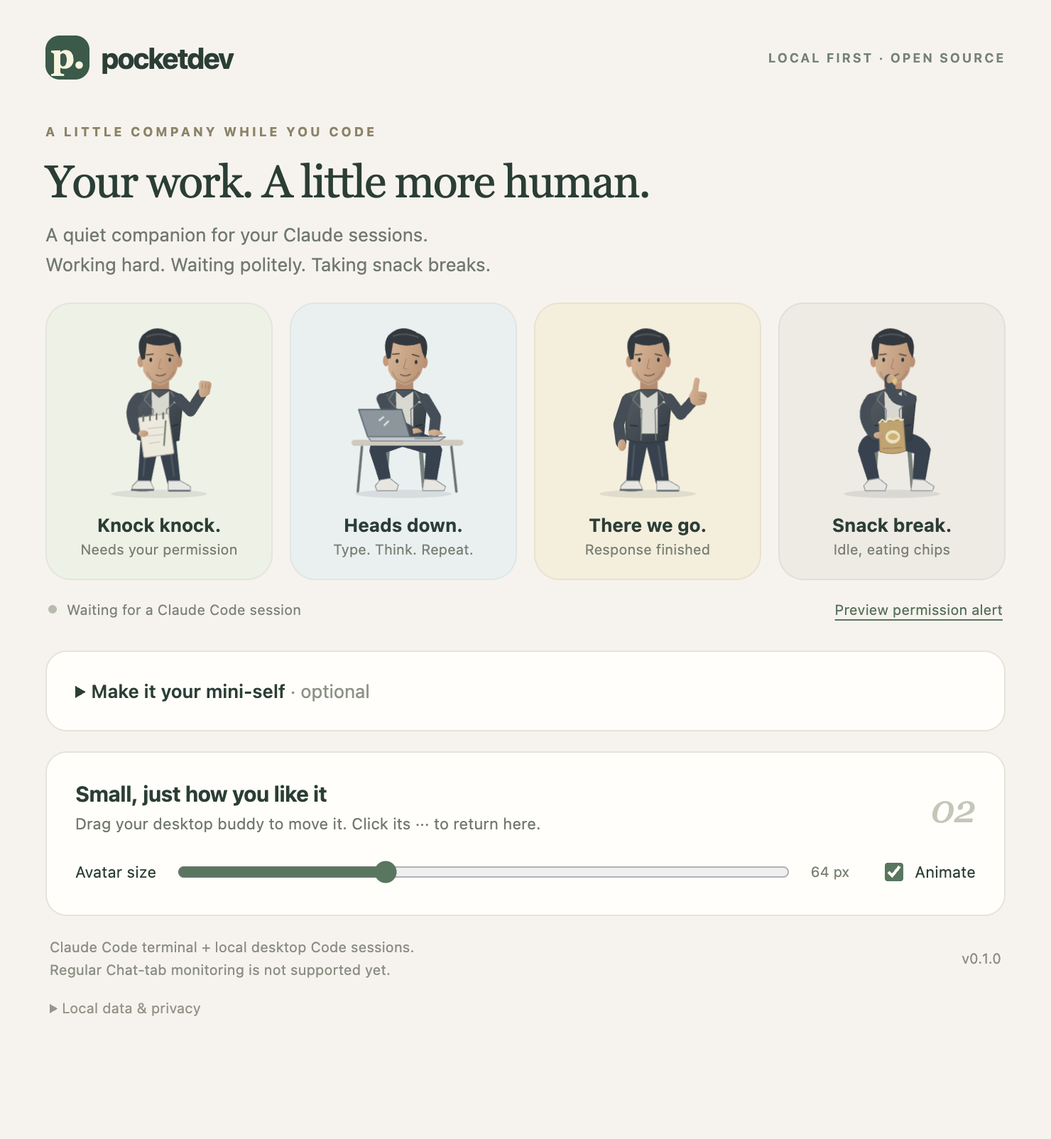
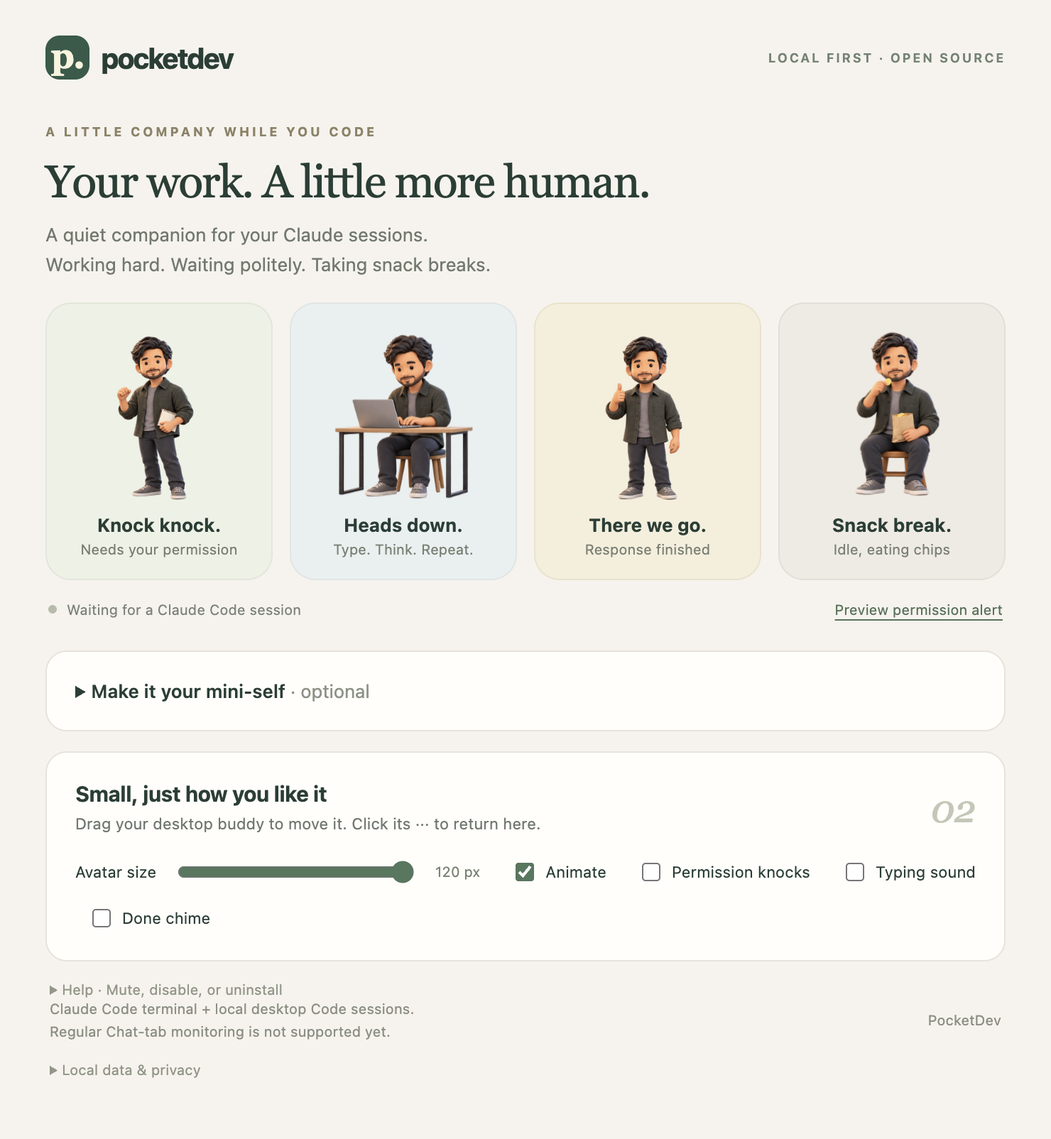
feat: enhance mascot animations and documentation with bundled sprite sheets

diff --git a/app/mascot.js b/app/mascot.js
@@ -1,118 +1,62 @@
-// Original SVG artwork, animated with CSS. No external assets or animation runtime.
+// Bundled 3D-style sprite sheets; no network or animation library required.
+// View boxes align the original generated frames without resampling the artwork.
+const buddyAssets = new URL("assets/buddy/", document.currentScript.src).href;
+const buddyFrames = {
+  waiting: {
+    size: 1254,
+    cell: 627,
+    views: [
+      [20, -75, 742, 742],
+      [569, -75, 742, 742],
+      [20, 550, 742, 742],
+      [569, 550, 742, 742],
+    ],
+  },
+  working: {
+    size: 1254,
+    cell: 627,
+    views: [
+      [-41, -63, 726, 726],
+      [577, -63, 726, 726],
+      [-41, 548, 726, 726],
+      [577, 549, 726, 726],
+    ],
+  },
+  done: {
+    size: 1254,
+    cell: 627,
+    views: [
+      [-3, -68, 732, 732],
+      [545, -68, 732, 732],
+      [-3, 558, 732, 732],
+      [545, 558, 732, 732],
+    ],
+  },
+  idle: {
+    size: 1254,
+    cell: 627,
+    views: [
+      [-18, -46, 703, 703],
+      [574, -46, 703, 703],
+      [-15, 567, 703, 703],
+      [576, 568, 703, 703],
+    ],
+  },
+};
 window.mountMascot = (container) => {
-  container.innerHTML = `<svg class="original" viewBox="0 0 240 240" role="img" aria-label="PocketDev mini developer">
-    <defs>
-      <linearGradient id="jacket" x1="0" y1="0" x2="1" y2=".7"><stop stop-color="#66706c"/><stop offset=".45" stop-color="#414c49"/><stop offset="1" stop-color="#293431"/></linearGradient>
-      <linearGradient id="skin" x1="0" y1="0" x2="1" y2=".45"><stop stop-color="#dcbaa0"/><stop offset=".55" stop-color="#c39a7c"/><stop offset="1" stop-color="#a9795c"/></linearGradient>
-      <linearGradient id="trousers" x2="1" y2=".3"><stop stop-color="#3c4650"/><stop offset="1" stop-color="#222b34"/></linearGradient>
-    </defs>
-    <ellipse cx="121" cy="219" rx="45" ry="3" fill="#15201e" opacity=".12"/>
-    <g class="character" stroke-linecap="round" stroke-linejoin="round">
-      <g class="standing-legs">
-        <path d="M103 145 L139 145 L140 172 L145 209 L132 209 L121 164 L113 209 L99 209 L101 174Z" fill="url(#trousers)"/>
-        <path d="M118 154 L110 198 M129 168 L138 199" fill="none" stroke="#626a6f" stroke-width=".9" opacity=".55"/>
-        <path d="M100 204 L113 205 L114 213 Q105 216 93 215 L93 211Z M132 205 L145 205 L154 211 L154 215 L131 215Z" fill="#343b3e"/>
-        <path d="M94 215 L114 215 M132 215 L154 215" stroke="#a6aaa5" stroke-width="1.5"/>
-      </g>
-      <g class="seated-legs">
-        <path d="M99 158 L96 214 M142 158 L147 214" stroke="#66716b" stroke-width="3"/>
-        <rect x="94" y="151" width="54" height="6" rx="1" fill="#9b998a"/>
-        <path d="M104 145 Q89 147 85 165 L94 207 L107 205 L103 170 L120 163 L142 171 L142 206 L155 207 L163 165 Q153 150 137 145Z" fill="url(#trousers)"/>
-        <path d="M94 168 L100 194 M153 172 L149 195" stroke="#667078" stroke-width=".9" fill="none" opacity=".5"/>
-        <path d="M94 204 L106 204 L113 210 L112 216 L89 216 L89 212Z M143 204 L155 205 L164 211 L163 216 L141 216Z" fill="#343b3e"/>
-        <path d="M90 216 L112 216 M142 216 L163 216" stroke="#a6aaa5" stroke-width="1.5"/>
-      </g>
-      <g class="torso">
-        <path d="M116 72 L116 85 L129 85 L128 71Z" fill="url(#skin)"/>
-        <path d="M116 76 Q122 81 128 75 L128 82 L116 83Z" fill="#946e55" opacity=".4"/>
-        <path d="M115 82 L130 82 L139 95 L134 147 L108 147 L106 94Z" fill="#c4c3b8"/>
-        <path d="M97 87 L114 81 L118 91 L116 146 L103 150 L98 115Z M129 81 L145 88 L145 116 L140 150 L126 146 L126 92Z" fill="url(#jacket)"/>
-        <path d="M114 81 L109 87 L115 96 M129 81 L135 88 L128 96" stroke="#88918a" stroke-width="1" fill="none"/>
-        <path d="M114 103 L113 143 M129 104 L130 143" stroke="#222e2b" stroke-width="1"/>
-        <path d="M100 116 L110 116 L109 127 L101 126 M134 116 L143 115 L142 126 L135 127" stroke="#849088" stroke-width=".6" fill="none" opacity=".55"/>
-        <path d="M119 95 L123 98 L122 135" stroke="#b2b2a8" stroke-width=".7" fill="none"/>
-        <path d="M101 141 L111 139 M133 139 L141 141" stroke="#202c29" stroke-width="1.2"/>
-      </g>
-      <g class="head"><g class="face-detail">
-        <path d="M108 58 Q105 56 106 62 Q107 66 110 65 M134 58 Q137 56 136 62 Q135 66 133 65" fill="#b8896b"/>
-        <path d="M110 49 Q120 42 132 49 L134 62 L131 71 L124 77 L118 76 L111 70 L108 59Z" fill="url(#skin)"/>
-        <path d="M109 61 L107 53 Q104 45 115 42 Q124 37 132 45 Q139 49 134 61 L132 54 L130 49 Q120 53 112 49 L111 60Z" fill="#303433"/>
-        <path d="M112 46 Q120 42 129 46" stroke="#5c605b" stroke-width=".9" fill="none"/>
-        <path d="M113 57 L118 56 M126 56 L131 57" stroke="#534637" stroke-width="1"/>
-        <g class="eyes" fill="#343936"><path d="M113 60 Q116 58 119 60 M125 60 Q128 58 131 60" fill="none" stroke="#584d40" stroke-width=".75"/><ellipse cx="116" cy="60" rx=".85" ry="1"/><ellipse cx="128" cy="60" rx=".85" ry="1"/></g>
-        <path d="M122 59 L120 66 L123 67" stroke="#997055" stroke-width=".7" fill="none"/>
-        <path d="M112 66 L114 70 Q122 78 130 70 L132 65 L130 72 L124 77 L118 76 L112 71Z" fill="#534d43" opacity=".24"/>
-        <path class="mouth" d="M118 71 Q122 72 126 71" stroke="#785746" stroke-width=".85" fill="none"/>
-        <path d="M119 74 L124 74" stroke="#e0b597" stroke-width=".65" opacity=".65"/>
-      </g></g>
-      <g class="pose pose-waiting">
-        <path d="M99 92 Q84 115 94 135 L105 144" stroke="#47534d" stroke-width="11" fill="none"/>
-        <path d="M90 118 L94 132" stroke="#748076" stroke-width="1" fill="none"/>
-        <g class="notepad">
-          <path d="M101 126 L130 122 L136 166 L106 170Z" fill="#cfccbd" stroke="#777f73" stroke-width=".8"/>
-          <path d="M103 128 L128 125 L133 164 L108 167Z" fill="#f1eee4"/>
-          <path d="M105 124 L106 130 M112 123 L113 129 M119 122 L120 128 M126 121 L127 127" stroke="#5e6961" stroke-width="1.4"/>
-          <path d="M110 138 L126 136 M111 145 L127 143 M112 152 L124 150" stroke="#bac0b4" stroke-width=".8"/>
-          <path d="M99 139 Q104 137 108 142 L110 146 L105 149 L101 146Z" fill="url(#skin)"/>
-          <path d="M129 132 L133 155" stroke="#535e57" stroke-width="1.5"/>
-        </g>
-        <g class="knocking-arm">
-          <path d="M142 92 L155 119 L171 99" fill="none" stroke="#414d47" stroke-width="11"/>
-          <path d="M153 110 L158 114" stroke="#79847a" stroke-width="1"/>
-          <path d="M167 100 L167 91 Q168 87 172 87 L178 88 Q181 90 179 94 L178 100 L173 104Z" fill="url(#skin)"/>
-          <path d="M171 89 L171 94 M175 90 L175 94" stroke="#9e7155" stroke-width=".7"/>
-        </g>
-        <g class="knock-marks" stroke="#9a8968" stroke-width="1.2"><path d="M186 84 L191 81 M188 94 L194 94 M184 104 L190 107"/></g>
-      </g>
-      <g class="pose pose-working">
-        <path d="M99 92 L104 127 L133 146" fill="none" stroke="#47534d" stroke-width="11"/>
-        <path d="M99 119 L104 129 L121 139" fill="none" stroke="#7b857b" stroke-width=".8"/>
-        <g class="typing-right"><path d="M142 92 L153 120 L155 146" fill="none" stroke="#414d47" stroke-width="11"/><path d="M151 142 L157 142 L161 149 L153 150Z" fill="url(#skin)"/></g>
-        <path d="M65 160 L181 160 M73 162 L69 217 M174 162 L178 217" stroke="#4b5653" stroke-width="2.5"/>
-        <path d="M64 157 L182 157" stroke="#aaa99b" stroke-width="5"/>
-        <path d="M67 116 L117 116 L128 150 L78 150Z" fill="#79878c" stroke="#4b5b61" stroke-width="1"/>
-        <path d="M70 119 L115 119 L124 147 L81 147Z" fill="#95a1a3"/>
-        <path d="M79 150 L169 150 L164 154 L81 154Z" fill="#c0c8c7" stroke="#64726f" stroke-width=".8"/>
-        <path d="M133 151 L157 151" stroke="#687873" stroke-width="1"/>
-        <path d="M94 132 L98 130 L100 133 L96 135Z" fill="#cbd2cf"/>
-        <g class="typing-left"><path d="M129 143 Q135 142 139 145 L143 149 L132 149Z" fill="url(#skin)"/></g>
-        <g class="typing-fingers"><path d="M152 144 Q158 142 161 145 L165 149 L154 149Z" fill="url(#skin)"/></g>
-        <g class="scratch-arm"><path d="M142 92 Q159 90 150 69 L137 54" stroke="#414d47" stroke-width="10" fill="none"/>
-          <path class="scratch-hand" d="M135 60 L131 55 Q129 52 132 49 L135 47 L139 51 L140 56Z" fill="url(#skin)"/>
-        </g>
-      </g>
-      <g class="pose pose-done">
-        <path d="M99 92 L88 123 L91 153" fill="none" stroke="#47534d" stroke-width="11"/>
-        <path d="M87 150 L94 150 L95 160 L92 165 L88 161Z" fill="url(#skin)"/>
-        <g class="thumb-arm"><path d="M142 92 L156 119 L173 102" fill="none" stroke="#414d47" stroke-width="11"/>
-          <path d="M169 104 L168 97 L172 92 L175 82 Q176 79 178 81 L179 84 L177 93 L184 95 Q187 96 185 100 L183 106 L176 108Z" fill="url(#skin)"/>
-          <path d="M178 97 L184 99 M177 101 L183 103" stroke="#9e7155" stroke-width=".6"/>
-        </g>
-      </g>
-      <g class="pose pose-idle">
-        <path d="M99 92 Q83 117 98 139 L108 145" fill="none" stroke="#47534d" stroke-width="11"/>
-        <g class="chipbag">
-          <path d="M109 131 L133 129 L137 164 Q125 168 111 166Z" fill="#b9a17b" stroke="#8e7c60" stroke-width=".8"/>
-          <path d="M109 132 L112 129 L116 131 L120 128 L124 130 L128 127 L132 130" stroke="#ded1b4" stroke-width="1.3" fill="none"/>
-          <path d="M116 140 L130 138 L132 149 L118 151Z" fill="#e1d6bb"/>
-          <path d="M119 142 L127 141 M120 146 L126 145" stroke="#988568" stroke-width=".8"/>
-          <path d="M115 163 L132 161" stroke="#8e7c60" stroke-width=".8"/>
-        </g>
-        <path d="M105 140 Q111 139 115 143 L116 146 L109 149 L105 146Z" fill="url(#skin)"/>
-        <g class="snacking-arm"><path d="M142 92 Q161 117 134 137" fill="none" stroke="#414d47" stroke-width="10"/>
-          <path d="M129 135 L135 134 L139 138 L135 142 L129 140Z" fill="url(#skin)"/>
-          <path d="M131 134 Q131 129 136 130 L136 135Z" fill="#d9bf87" stroke="#b69a63" stroke-width=".6"/>
-        </g>
-      </g>
-    </g>
-  </svg><img class="custom" alt="Your personalized mini avatar" hidden>`;
-  // Multiple preview instances share the page; keep gradient references local.
-  const id = `buddy-${(window.mountMascot.count = (window.mountMascot.count || 0) + 1)}`;
-  for (const name of ["skin", "jacket", "trousers"]) {
-    container.querySelector(`#${name}`).id = `${id}-${name}`;
-    for (const node of container.querySelectorAll(`[fill="url(#${name})"]`))
-      node.setAttribute("fill", `url(#${id}-${name})`);
-  }
+  const poses = Object.entries(buddyFrames)
+    .map(([pose, sheet]) => {
+      const frames = sheet.views
+        .map((view, index) => {
+          const x = (index % 2) * sheet.cell,
+            y = Math.floor(index / 2) * sheet.cell;
+          return `<svg class="sprite-frame" viewBox="${view.join(" ")}" aria-hidden="true"><svg x="${x}" y="${y}" width="${sheet.cell}" height="${sheet.cell}" viewBox="${x} ${y} ${sheet.cell} ${sheet.cell}" overflow="hidden"><image href="${buddyAssets}${pose}.png" width="${sheet.size}" height="${sheet.size}"/></svg></svg>`;
+        })
+        .join("");
+      return `<div class="pose pose-${pose}"><div class="film">${frames}</div></div>`;
+    })
+    .join("");
+  container.innerHTML = `<div class="original character" role="img" aria-label="PocketDev textured mini developer">${poses}</div><img class="custom" alt="Your personalized mini avatar" hidden>`;
 };
 window.applyMascot = (container, images, state) => {
   const pose = ["working", "done", "idle"].includes(state) ? state : "waiting";

diff --git a/app/mascot.css b/app/mascot.css
@@ -1,57 +1,51 @@
-.mascot { position: relative; aspect-ratio: 1; }
-.mascot svg, .mascot .custom { width: 100%; height: 100%; object-fit: contain; display: block; }
+.mascot { position: relative; aspect-ratio: 1; min-width: 0; min-height: 0; }
+.mascot .original, .mascot .custom { width: 100%; height: 100%; display: block; }
+.mascot .custom { object-fit: contain; }
 .mascot .custom[hidden], .mascot .hidden { display: none; }
-.pose, .seated-legs { display: none; }
+.pose { display: none; width: 100%; height: 100%; overflow: hidden; }
 [data-state="waiting"] .pose-waiting, [data-state="permission"] .pose-waiting, [data-state="error"] .pose-waiting,
-[data-state="working"] .pose-working, [data-state="done"] .pose-done, [data-state="idle"] .pose-idle,
-[data-state="working"] .seated-legs, [data-state="idle"] .seated-legs { display: block; }
-[data-state="working"] .standing-legs, [data-state="idle"] .standing-legs { display: none; }
-.character { transform-origin: 120px 215px; animation: breathe 4s ease-in-out infinite; }
-.eyes { transform-origin: 122px 60px; animation: blink 5s infinite; }
-.knocking-arm { transform-origin: 142px 92px; animation: knock 6s ease-in-out infinite; }
-.knock-marks { animation: knock-marks 6s ease-in-out infinite; }
-[data-state="working"] .head { transform-origin: 122px 78px; animation: think 7s ease-in-out infinite; }
-[data-state="working"] .eyes { translate: 1px 2px; }
-.typing-left { animation: typing .12s ease-in-out infinite alternate; }
-.typing-fingers { animation: typing .13s .06s ease-in-out infinite alternate, typing-break 7s linear infinite; }
-.typing-right { animation: typing-break 7s linear infinite; }
-.scratch-arm { animation: scratch 7s ease-in-out infinite; transform-origin: 142px 92px; }
-.scratch-hand { animation: scratch-fingers .2s ease-in-out infinite alternate; }
-.thumb-arm { transform-origin: 142px 92px; animation: thumbs 1.6s ease-in-out infinite; }
-.snacking-arm { transform-origin: 142px 92px; animation: snack 4.5s ease-in-out infinite; }
-[data-state="idle"] .mouth { transform-origin: 122px 71px; animation: chew 4.5s ease-in-out infinite; }
-.chipbag { transform-origin: 120px 168px; animation: crinkle 4.5s ease-in-out infinite; }
-.custom { transform-origin: 50% 90%; animation: breathe 4s ease-in-out infinite; }
-[data-state="working"] .custom { animation: busy .15s ease-in-out infinite alternate; }
-[data-state="done"] .custom { animation: celebrate 1.6s ease-in-out infinite; }
-[data-state="permission"] .custom, [data-state="waiting"] .custom { animation: knock 6s ease-in-out infinite; }
-@keyframes breathe { 50% { transform: translateY(-1px); } }
-@keyframes blink { 0%, 42%, 46%, 100% { transform: scaleY(1); } 44% { transform: scaleY(.08); } }
-@keyframes knock { 0%, 10%, 23%, 39%, 54%, 68%, 83%, 100% { transform: rotate(0); } 15%, 20% { transform: rotate(8deg); } 44%, 50% { transform: rotate(16deg); } 72%, 78% { transform: rotate(25deg); } }
-@keyframes knock-marks { 0%, 10%, 23%, 39%, 54%, 68%, 83%, 100% { opacity: 0; } 15%, 20% { opacity: .35; } 44%, 50% { opacity: .65; } 72%, 78% { opacity: 1; } }
-@keyframes typing { to { transform: translateY(-3px); } }
-@keyframes typing-break { 0%, 61%, 90%, 100% { opacity: 1; } 63%, 88% { opacity: 0; } }
-@keyframes scratch { 0%, 61%, 90%, 100% { opacity: 0; transform: rotate(12deg); } 64%, 69%, 77%, 85% { opacity: 1; transform: rotate(0); } 73%, 81% { opacity: 1; transform: rotate(-5deg); } 88% { opacity: 1; transform: rotate(0); } }
-@keyframes scratch-fingers { to { transform: translateY(-2px); } }
-@keyframes think { 0%, 60%, 92%, 100% { transform: rotate(3deg); } 68%, 84% { transform: rotate(-6deg); } }
-@keyframes thumbs { 0%, 100% { transform: rotate(12deg); } 35%, 55% { transform: rotate(-10deg); } 75% { transform: rotate(0); } }
-@keyframes snack { 0%, 8%, 75%, 100% { transform: rotate(0); } 30%, 43% { transform: rotate(125deg) scale(.65); } }
-@keyframes chew { 0%, 35%, 70%, 100% { transform: scaleY(1); } 42%, 54%, 66% { transform: scaleY(1.25); } 48%, 60% { transform: scaleY(.9); } }
-@keyframes crinkle { 0%, 10%, 35%, 100% { transform: scaleX(1); } 18%, 26% { transform: scaleX(.96); } }
-@keyframes busy { to { transform: translateY(-1px) rotate(.5deg); } }
-@keyframes celebrate { 0%, 85%, 100% { transform: translateY(0); } 16% { transform: translateY(2px) scaleY(.97); } 38%, 48% { transform: translateY(-14px) rotate(-2deg); } 66% { transform: translateY(0) scaleY(.97); } }
-.reduced-motion *, .reduced-motion *::before { animation: none !important; transition: none !important; }
-.reduced-motion .scratch-arm, .reduced-motion .knock-marks { opacity: 0; }
-@media (prefers-reduced-motion: reduce) { .mascot * { animation: none !important; } .scratch-arm, .knock-marks { opacity: 0; } }
-
-[data-state="done"] .character { animation: celebrate 1.6s ease-in-out infinite; }
-[data-state="permission"] .character, [data-state="waiting"] .character { animation: excuse-me 6s ease-in-out infinite; }
-@keyframes excuse-me { 0%, 25%, 55%, 85%, 100% { transform: translateX(0) rotate(0); } 15% { transform: translateX(1px) rotate(1deg); } 45% { transform: translateX(3px) rotate(2deg); } 75% { transform: translateX(5px) rotate(3deg); } }
-
-/* Readable even at button size; idle stays relaxed and silent. */
+[data-state="working"] .pose-working, [data-state="done"] .pose-done, [data-state="idle"] .pose-idle { display: block; }
+.film { display: flex; width: 400%; height: 100%; }
+.sprite-frame { display: block; flex: 0 0 25%; min-width: 0; height: 100%; overflow: hidden; }
+.character, .custom { transform-origin: 50% 94%; animation: breathe 4s ease-in-out infinite; }
+.pose-waiting .film { animation: knock-frames 6s steps(1, end) infinite; }
+.pose-working .film { animation: work-frames 7s steps(1, end) infinite; }
+.pose-done .film { animation: done-frames 1.6s steps(1, end) infinite; }
+.pose-idle .film { animation: snack-frames 4.5s steps(1, end) infinite; }
+[data-state="done"] .character, [data-state="done"] .custom { animation: celebrate 1.6s ease-in-out infinite; }
 [data-state="idle"] .character, [data-state="idle"] .custom { animation: idle-sway 4.5s ease-in-out infinite; }
-[data-state="idle"] .head { transform-origin: 122px 78px; animation: idle-look 4.5s ease-in-out infinite; }
-[data-state="idle"] .seated-legs { transform-origin: 120px 158px; animation: idle-legs 2.25s ease-in-out infinite; }
-@keyframes idle-sway { 0%, 100% { transform: translateY(0) rotate(-2deg); } 50% { transform: translateY(-4px) rotate(2deg); } }
-@keyframes idle-look { 0%, 100% { transform: rotate(-2deg); } 35%, 55% { transform: rotate(3deg); } }
-@keyframes idle-legs { 0%, 100% { transform: rotate(-3deg); } 50% { transform: rotate(3deg); } }
+[data-state="permission"] .character, [data-state="waiting"] .character { animation: excuse-me 6s ease-in-out infinite; }
+[data-state="working"] .custom { animation: busy .15s ease-in-out infinite alternate; }
+[data-state="permission"] .custom, [data-state="waiting"] .custom { animation: excuse-me 6s ease-in-out infinite; }
+/* Hide the other cells instantly; interpolating between cells would slide the sheet. */
+@keyframes knock-frames {
+  0%, 8%, 20%, 100% { transform: translateX(0); }
+  3%, 13% { transform: translateX(-25%); }
+  10% { transform: translateX(-50%); }
+  16% { transform: translateX(-75%); }
+}
+@keyframes work-frames {
+  0%, 4%, 8%, 12%, 16%, 20%, 24%, 28%, 32%, 36%, 40%, 44%, 48%, 52%, 56%, 60%, 92%, 96%, 100% { transform: translateX(0); }
+  2%, 6%, 10%, 14%, 18%, 22%, 26%, 30%, 34%, 38%, 42%, 46%, 50%, 54%, 58%, 94%, 98% { transform: translateX(-25%); }
+  64%, 76%, 88% { transform: translateX(-50%); }
+  70%, 82% { transform: translateX(-75%); }
+}
+@keyframes done-frames {
+  0%, 100% { transform: translateX(0); }
+  16% { transform: translateX(-25%); }
+  38% { transform: translateX(-50%); }
+  70% { transform: translateX(-75%); }
+}
+@keyframes snack-frames {
+  0%, 85%, 100% { transform: translateX(0); }
+  20% { transform: translateX(-25%); }
+  35% { transform: translateX(-50%); }
+  60% { transform: translateX(-75%); }
+}
+@keyframes breathe { 50% { transform: translateY(-1px); } }
+@keyframes busy { to { transform: translateY(-1px) rotate(.5deg); } }
+@keyframes celebrate { 0%, 85%, 100% { transform: translateY(0); } 16% { transform: translateY(2px) scaleY(.97); } 38%, 48% { transform: translateY(-12px) rotate(-2deg); } 66% { transform: translateY(0) scaleY(.97); } }
+@keyframes excuse-me { 0%, 25%, 100% { transform: translateX(0) rotate(0); } 4% { transform: translateX(1px) rotate(1deg); } 14% { transform: translateX(2px) rotate(2deg); } 18% { transform: translateX(3px) rotate(3deg); } }
+@keyframes idle-sway { 0%, 100% { transform: translateY(0) rotate(-1deg); } 50% { transform: translateY(-4px) rotate(1deg); } }
+.reduced-motion *, .reduced-motion *::before { animation: none !important; transition: none !important; }
+@media (prefers-reduced-motion: reduce) { .mascot * { animation: none !important; } }

diff --git a/README.md b/README.md
@@ -101,7 +101,7 @@ Disabling or uninstalling the plugin prevents startup in new sessions but does n
 
 The current integration uses `gpt-image-1.5`, medium quality, 1024×1024 transparent PNGs, through the official Images edits API. It makes **four paid API requests**. A Claude or ChatGPT subscription does not cover that API usage; access and billing depend on your OpenAI account. Check [current pricing](https://developers.openai.com/api/docs/pricing) before generating.
 
-**Animation detail:** custom images are four illustrations with gentle motion and pose transitions, not a generated skeletal rig or frame-by-frame video. The default vector character has individually animated parts. Generated pose consistency and likeness can vary. No paid image-generation request is needed to run the default character.
+**Animation detail:** custom images are four illustrations with gentle motion and pose transitions, not a generated skeletal rig or frame-by-frame video. The bundled default character uses four textured 3D-style sprite sheets with four poses each, animated with CSS. Typing alternates hand positions, working includes a head scratch, permission shows knocking, and idle brings chips to the mouth. These are stylized frame sequences, not a live 3D rig. Generated pose consistency and likeness can vary. No paid image-generation request is needed to run the default character.
 
 There are no automatic retries. On an error, later requests stop and your current avatar remains active. Completed images are kept in a new local `avatars/custom-*` folder. You can recover them there. Retrying starts all four requests again. Stopping or closing the window cancels the client request, but an already-started provider request may still be billed.
 
@@ -186,7 +186,7 @@ Unsigned development builds can trigger operating-system warnings. Public macOS 
 ## Small by design
 
 ```text
-app/             Electron app, vanilla UI, original SVG mascot, image API integration
+app/             Electron app, vanilla UI, bundled textured sprite mascot, image API integration
 plugin/          Claude hooks, release bootstrap, local status writer, and help command
 .claude-plugin/  Installable marketplace manifest
 test/            Node checks and a real desktop smoke test
@@ -196,12 +196,12 @@ There is no frontend framework, database, web server, MCP server, or provider ab
 
 ## License
 
-Code and the original default vector artwork are [MIT licensed](LICENSE). Uploaded photos and user-generated avatar packs are not part of this repository's license; use images you have permission to use and follow your generation provider's terms.
+Code and bundled default artwork are distributed under the [MIT license](LICENSE). See [artwork notes](app/assets/buddy/README.md) for generation provenance. Uploaded photos and user-generated avatar packs are not part of this repository's license; use images you have permission to use and follow your generation provider's terms.
 
 See [CONTRIBUTING.md](CONTRIBUTING.md) for small changes and releases. Technical references: [Claude hooks](https://code.claude.com/docs/en/hooks), [Claude plugin reference](https://code.claude.com/docs/en/plugins-reference), [OpenAI image edits](https://developers.openai.com/api/reference/resources/images/methods/edit), and [Electron security](https://www.electronjs.org/docs/latest/tutorial/security).
 
 Permission requests repeat double knocks every six seconds until a matching tool completion, turn/session reset, expiry, or local dismissal. Volume increases for the first three rounds, then stays capped. Working plays quiet typing; completion plays one short chime. Settings has independent **Permission knocks**, **Typing sound**, and **Done chime** toggles. Existing muted preferences remain muted. Existing avatar sizes are preserved; use the size slider to choose 120 px.
 
-Idle stays silent: the default buddy sways, moves his head and legs, and eats chips; custom idle images gently sway. Enable **Animate** to see motion (system Reduce Motion is respected). **Preview permission alert** runs for 30 seconds so you can hear repeated knocks; clicking another pose ends the preview early.
+Idle stays silent: the default buddy gently sways and cycles through eating chips; custom idle images gently sway. Enable **Animate** to see motion (system Reduce Motion is respected). **Preview permission alert** runs for 30 seconds so you can hear repeated knocks; clicking another pose ends the preview early.
 
 Claude does not emit a hook for every approval or interruption. After approving a long-running tool or pressing Escape in Claude, click the avatar’s **×** if the reminder continues; PocketDev cannot promise immediate automatic detection. Pending permissions are tracked separately from unrelated tools. Live permissions take priority over previews, and new live activity ends a preview.

diff --git a/app/assets/buddy/README.md b/app/assets/buddy/README.md
@@ -1,0 +1,39 @@
+# Default textured buddy
+
+Four bundled 1254 × 1254 transparent PNG sheets, each a 2 × 2 grid in reading order.
+They are generated artwork, distributed with PocketDev under its MIT license.
+Generated using Codex's built-in image-generation tool from the user's approved
+developer concept. The user's original style reference is not bundled.
+
+No generation requests, API key, image service, or 3D engine are needed to use them.
+The files retain their generated pixels and alpha. The view boxes in `mascot.js`
+align the frames at display time; changing a sheet requires checking those bounds.
+CSS changes frames discretely and supplies the jump, sway, and gentle body motion.
+Reduced Motion displays the first frame. Custom/imported avatars still use the
+existing separate image-based path.
+
+## Generation prompt specification
+
+Shared direction: preserve the approved miniature adult developer's wavy dark
+hair, warm skin, short beard, charcoal olive woven overshirt, gray T-shirt,
+slate trousers, gray sneakers, tactile 3D materials, and soft studio lighting.
+Create one square transparent PNG per activity, exactly two columns by two rows
+of equal square cells. Keep camera, scale, head placement, and feet registered
+across frames. Show the complete character inside every cell. No labels, text,
+borders, environment, pedestal, checkerboard, or extra props.
+
+- **waiting.png:** stand with cream notepad in left hand; right hand prepares
+  to knock, extends knuckles, pulls back, then knocks slightly more emphatically.
+  Only forearm/hand and subtle eyebrows change.
+- **working.png:** seated behind a slim desk with silver laptop; alternate
+  typing hand positions, lift a hand toward the head, then scratch the hair.
+  Keep desk, chair, laptop, body, and feet fixed.
+- **done.png:** standing with one thumbs-up; raise the thumb slightly, extend
+  it toward the viewer with a warmer smile, then return. Feet stay grounded in
+  all source frames: the application supplies the jump.
+- **idle.png:** seated with a kraft chips bag on the lap; hold a chip near the
+  bag, lift toward mouth, bring it to the mouth, then lower the hand and chew.
+  Keep the bag, stool, body, and feet fixed. No idle sound.
+
+Each is a four-frame stylized sequence, not continuous motion capture. Inspect
+at both 120 px and the minimum supported size before changing timing or artwork.

diff --git a/CONTRIBUTING.md b/CONTRIBUTING.md
@@ -7,7 +7,7 @@ Keep PocketDev small. A focused fix or character improvement is more useful than
 3. Run `npm test`. For UI or bridge changes, also run the desktop smoke test documented in README.md and inspect the actual app.
 4. Explain the behavior change and what you tested in your pull request.
 
-The original mascot is in `app/mascot.js`; motion is in `app/mascot.css`. Both use standard SVG/CSS. Preserve reduced-motion support and make poses readable at the smallest size.
+The default sprite sheets are in `app/assets/buddy/`. `app/mascot.js` clips and aligns their frames using SVG view boxes; `app/mascot.css` controls frame timing and movement. No animation library is needed. Preserve reduced-motion support and make poses readable at the smallest size.
 
 The bridge must remain silent, fail-open, and independent of Claude's permission decisions. Never add prompt/command/transcript collection. Do not hardcode local usernames, credentials, or personal images.
 

diff --git a/plugin/commands/help.md b/plugin/commands/help.md
@@ -18,6 +18,7 @@ remove quarantine, or disable Electron's sandbox. Retry by starting a new Claude
 session. A timed-out installer lock expires after ten minutes.
 
 Controls:
+
 - Right-click the avatar, uncheck **Start automatically with Claude**, then choose
   **Quit PocketDev** to pause it. To resume while it is closed, run
   `node "${CLAUDE_PLUGIN_ROOT}/scripts/runtime.cjs" enable` only if the user asks.
